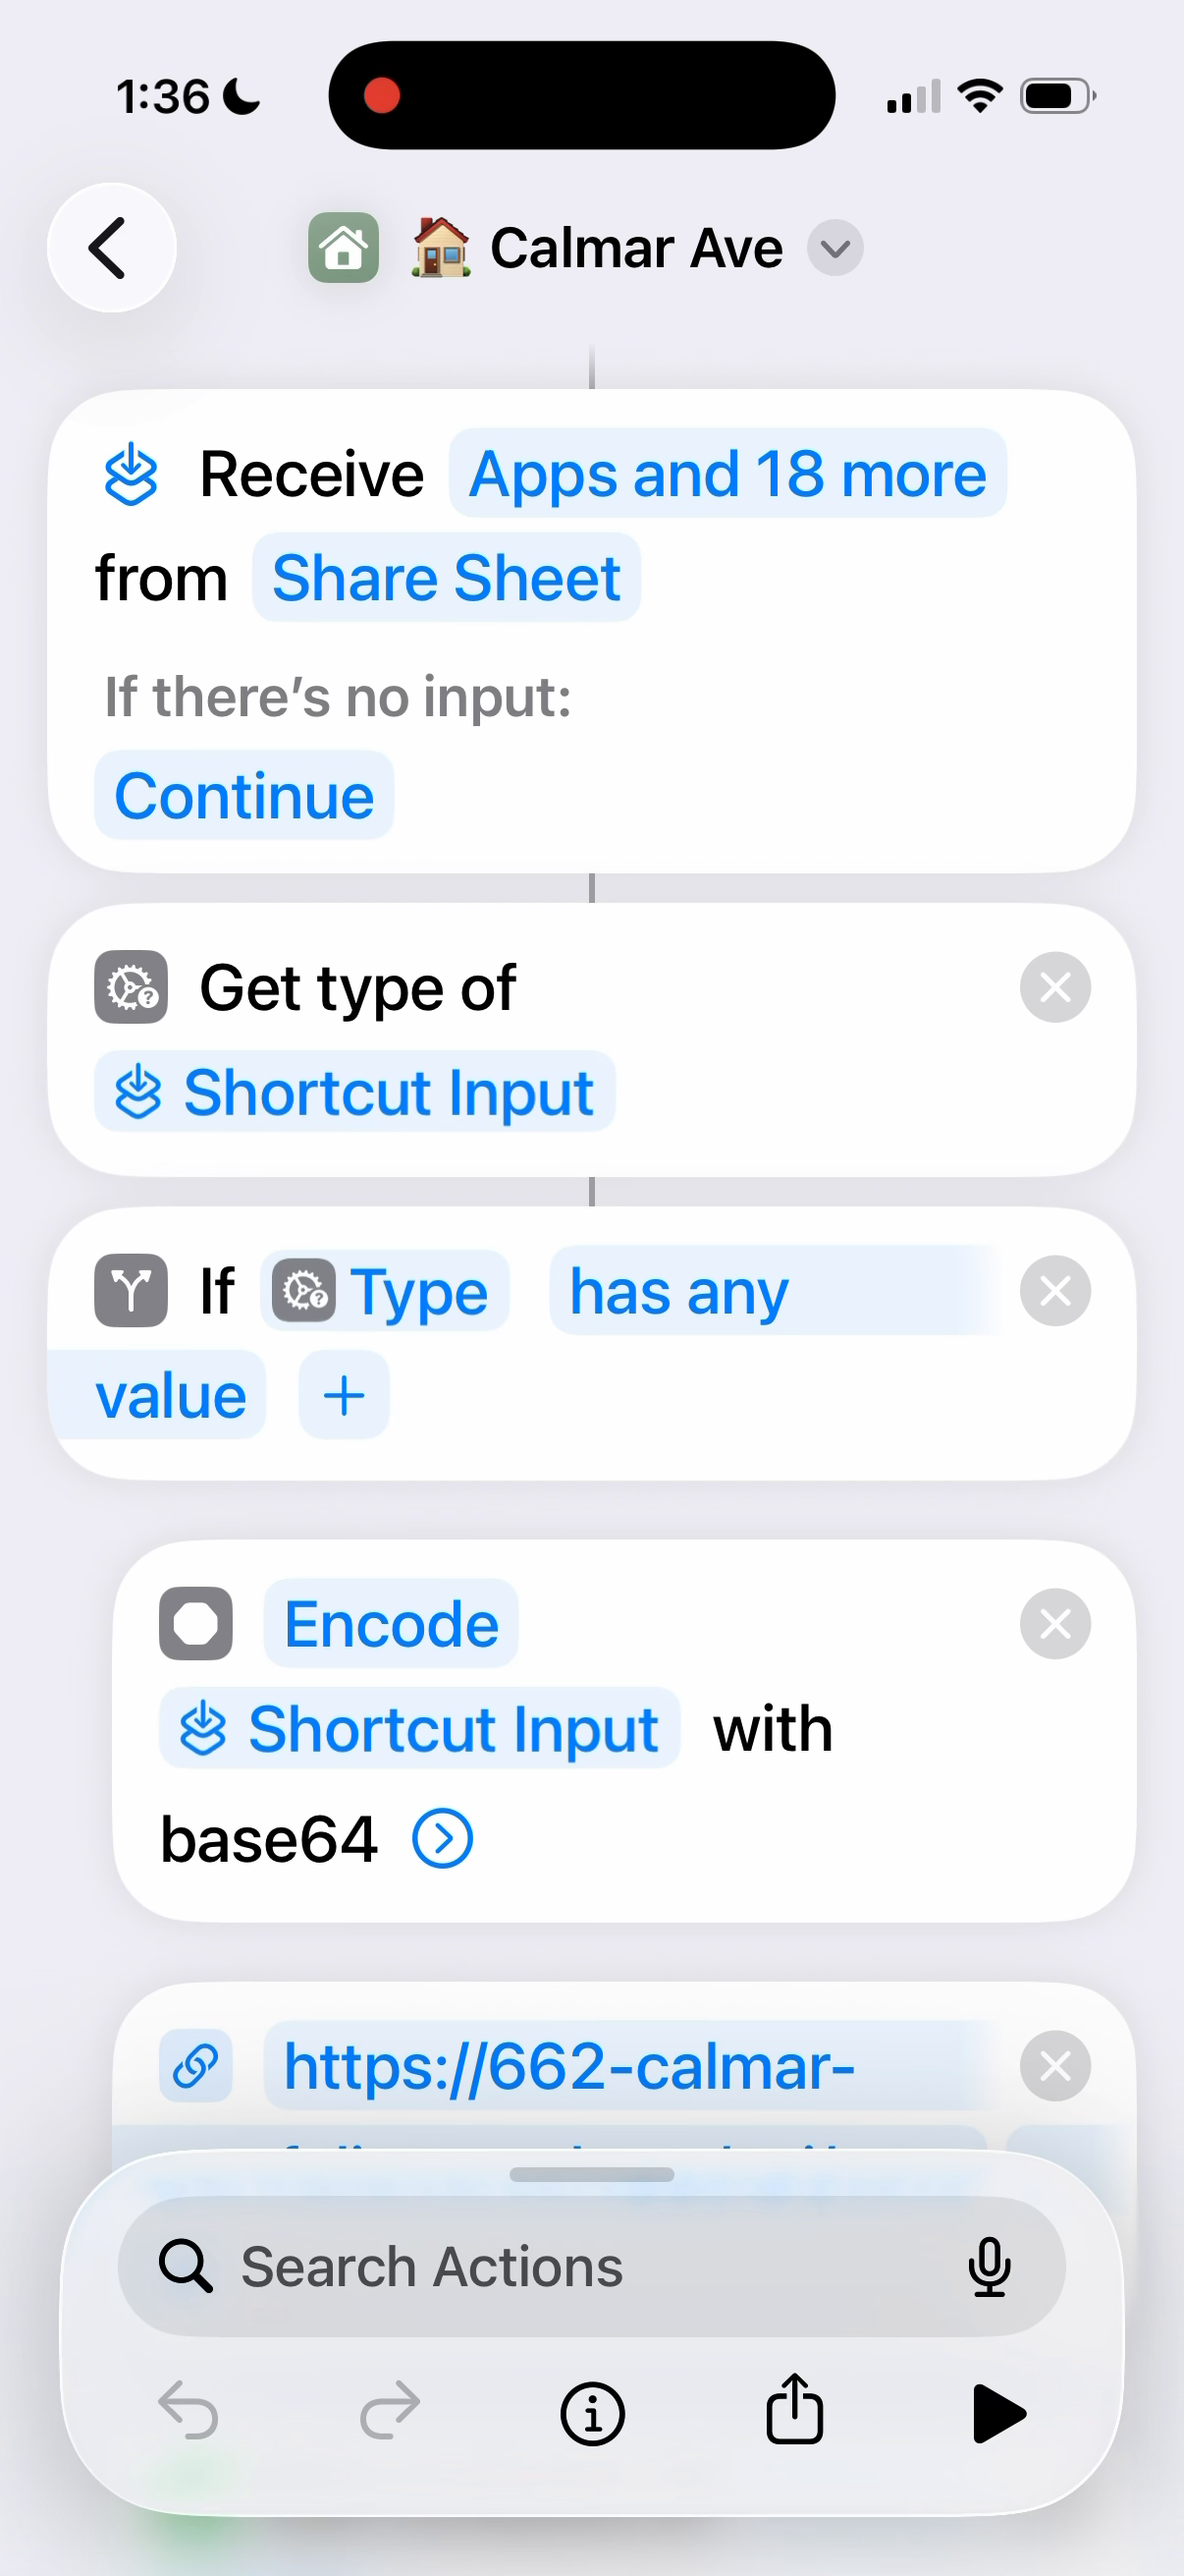
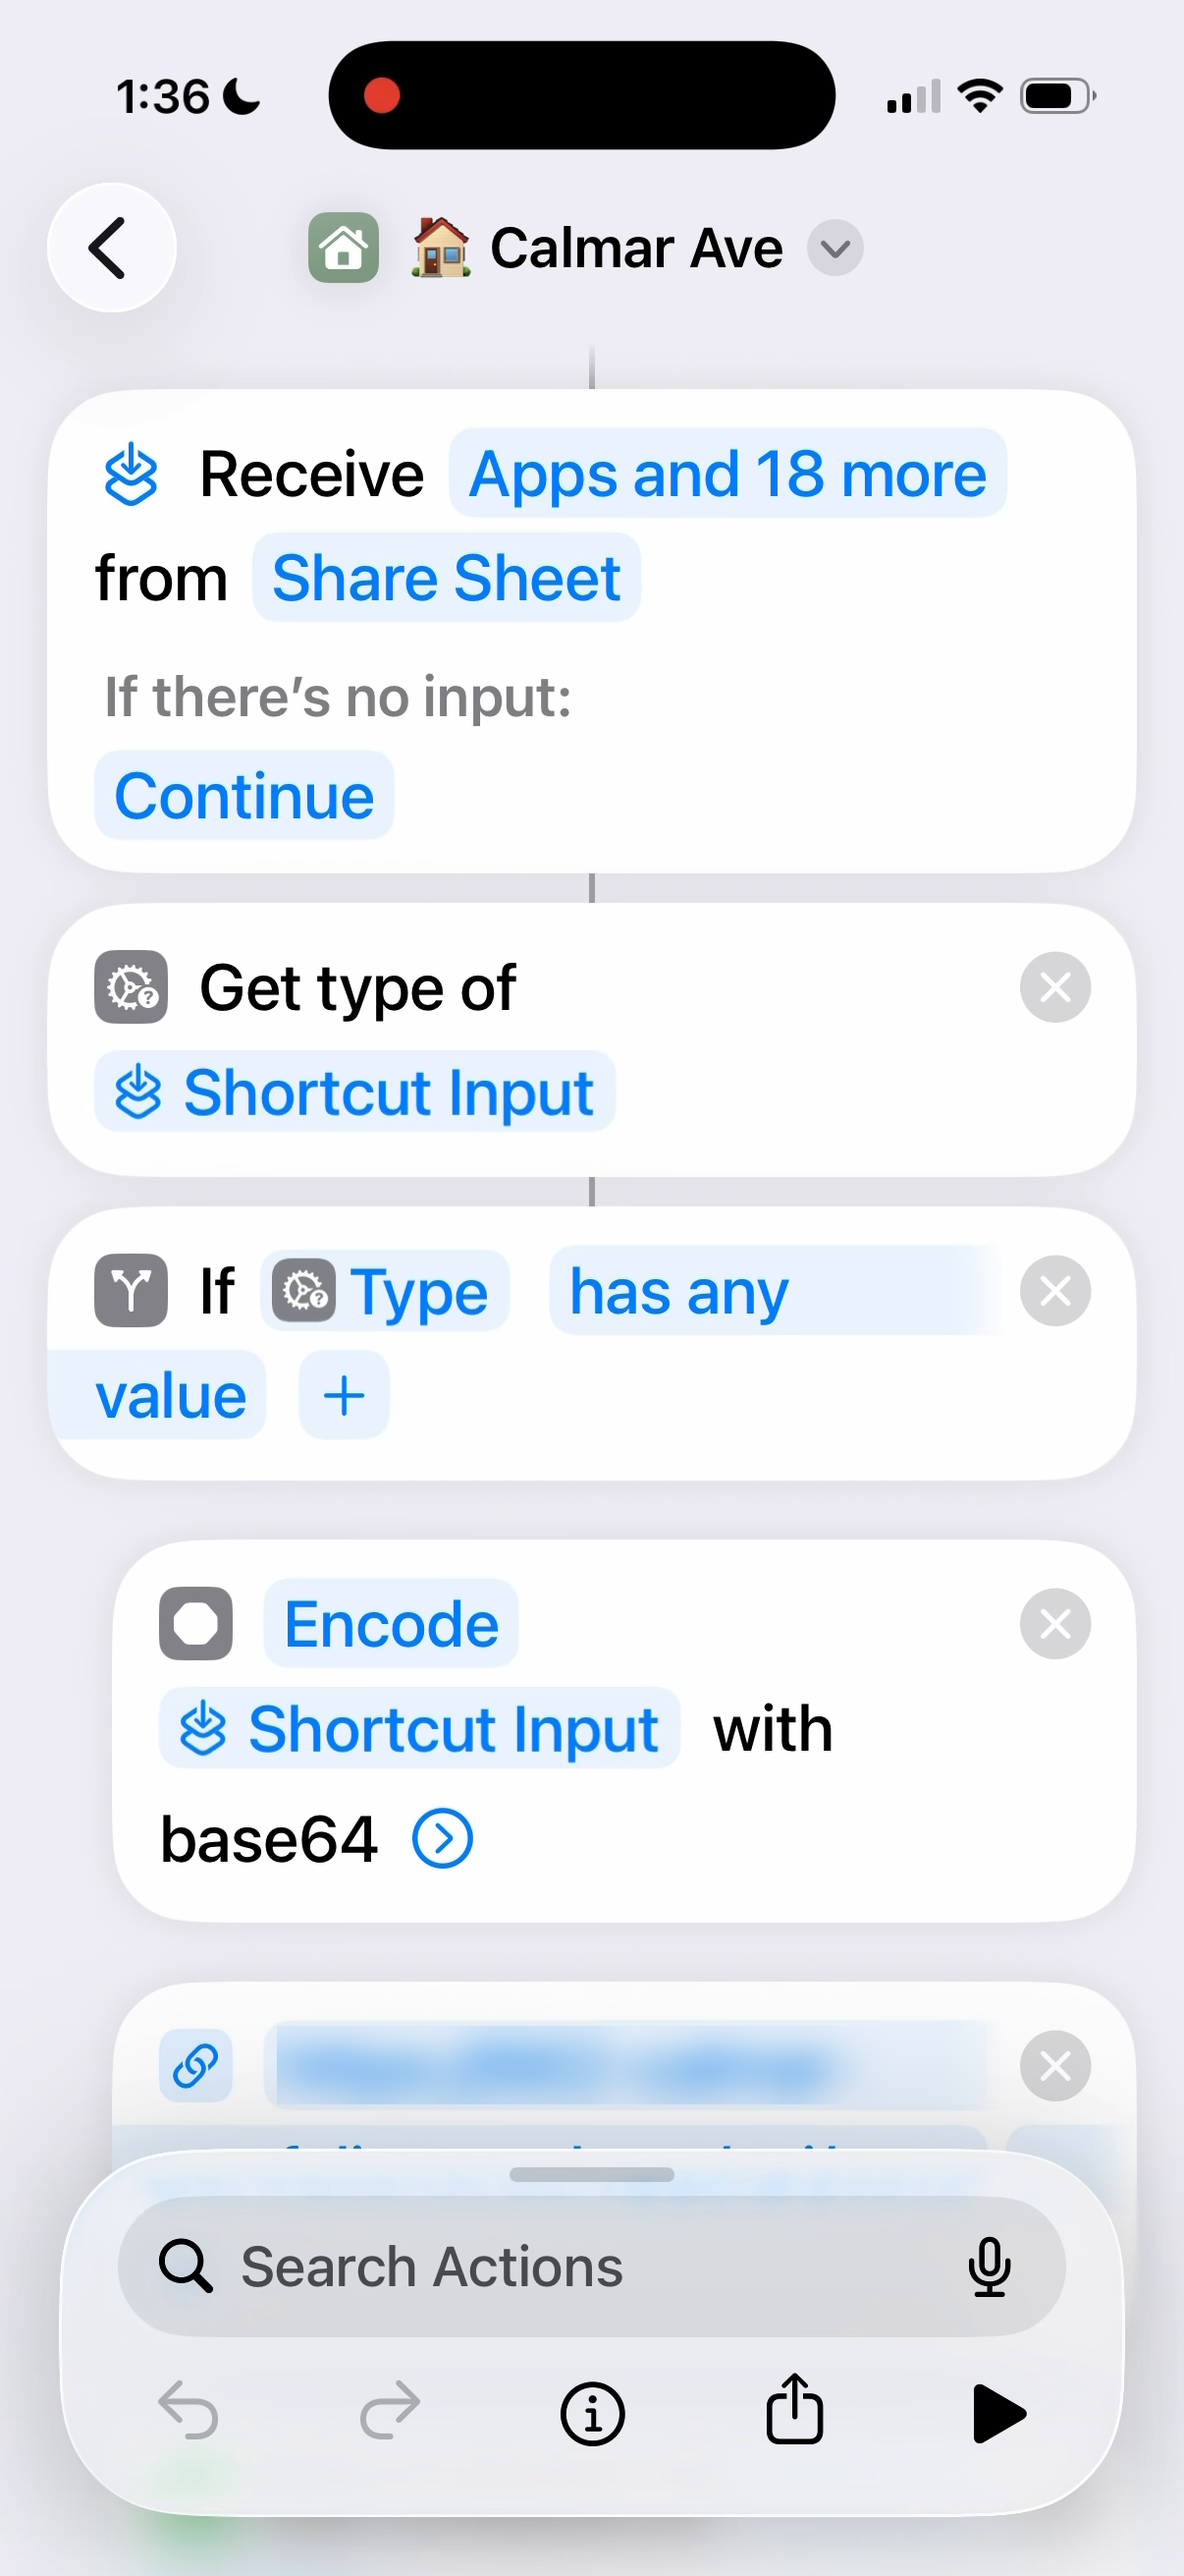
Take the house address off public pages
The skills gallery used the street number as a trigger phrase, the
designer-brief screenshot named the neighborhood, and the Shortcut
screenshot showed the street-number URL.

Claude-Session: https://claude.ai/code/session_01HzgHVb6NagUqaiGq3ZNvku

Changed region(s): [[0.2148, 0.7723, 0.7056, 0.8341]]

diff --git a/app/skills/page.tsx b/app/skills/page.tsx
@@ -142,7 +142,7 @@ const GROUPS: Group[] = [
         name: "interior-designer",
         oneLiner: "A design advisor that already knows my house.",
         how: "Holds the full context for our Oakland home — style, color palette, room priorities, team contacts, and specs — so I can ask a design question without re-explaining the whole project.",
-        trigger: "662 Calmar",
+        trigger: "update the mood board",
         tags: ["Personal"],
       },
       {
